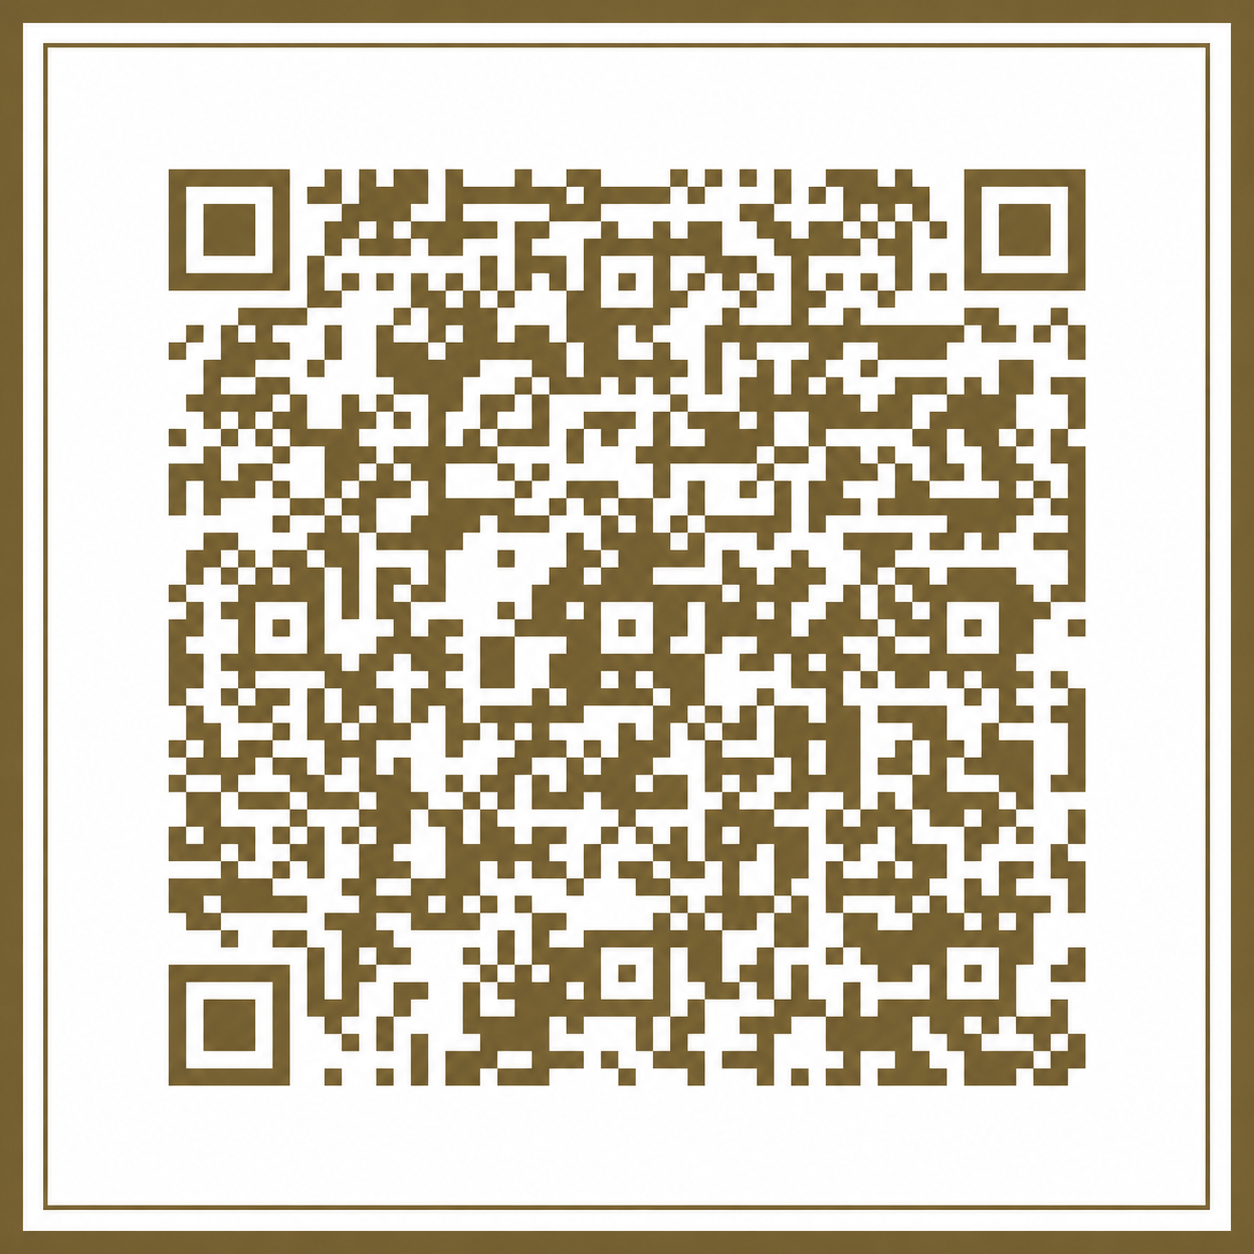
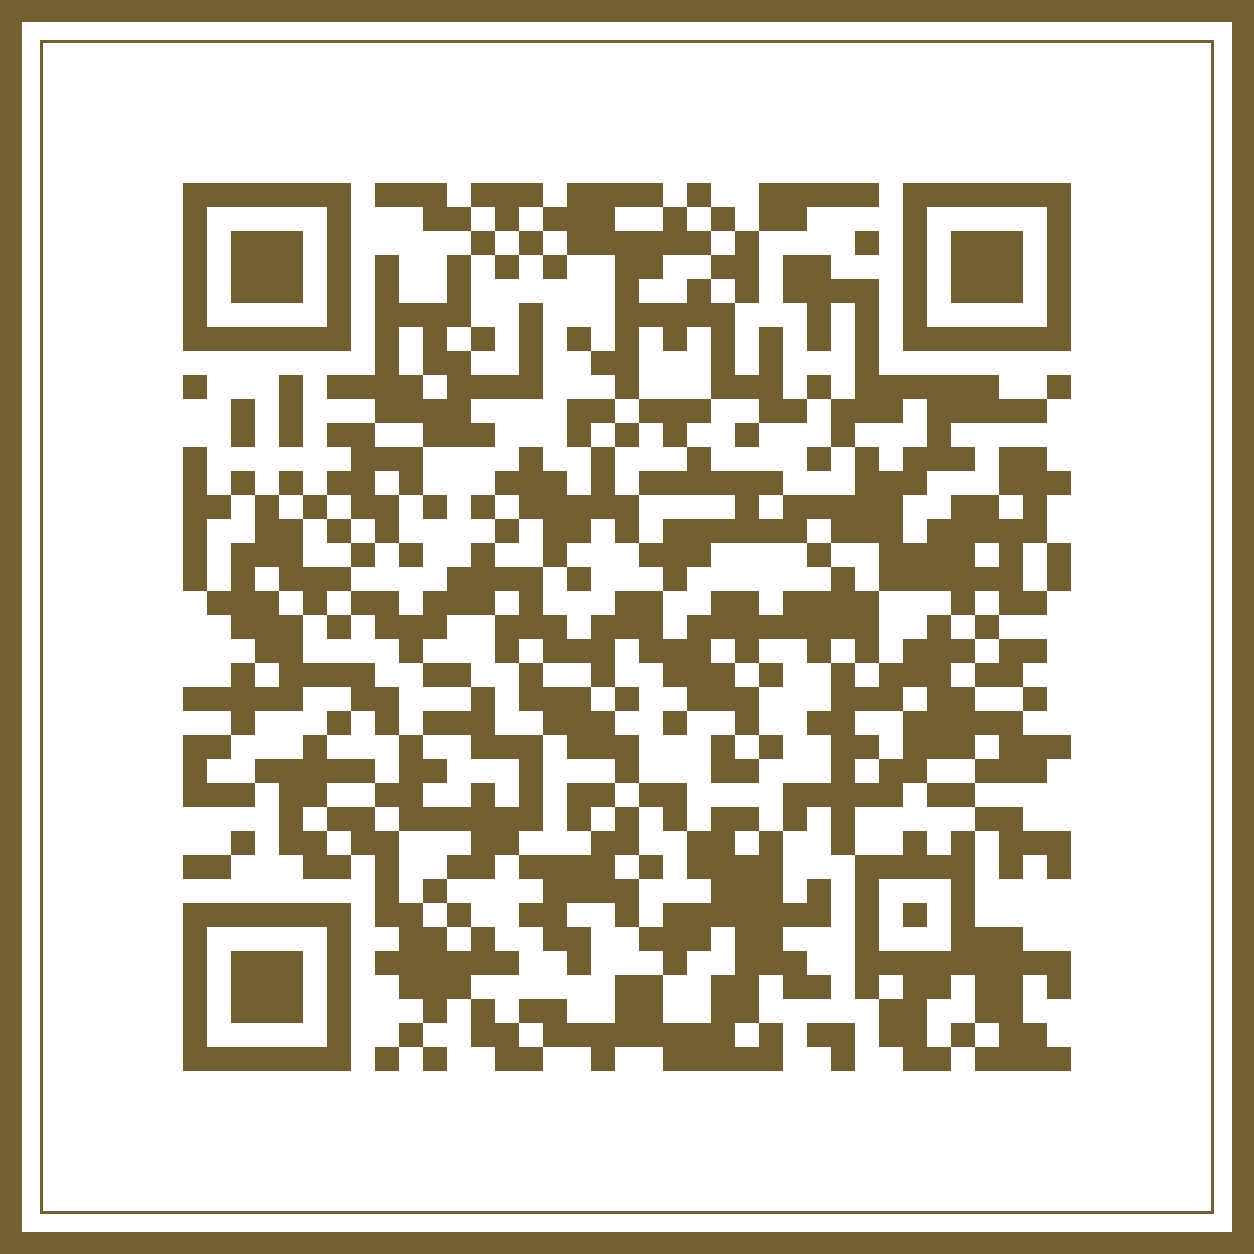
Point QR code to the AHG Instagram profile
Regenerated qr.png (same gold color and double frame) and documented its target in CLAUDE.md.

diff --git a/CLAUDE.md b/CLAUDE.md
@@ -1,0 +1,32 @@
+# CLAUDE.md
+
+This file provides guidance to Claude Code (claude.ai/code) when working with code in this repository.
+
+## Project status
+
+Static site, no dependencies, no build step, no test runner: `index.html` (markup), `style.css`, `app.js`. Run it by opening `index.html` in a browser; deploy by publishing the repo root to GitHub Pages.
+
+How it works:
+- The `PRIZES` array at the top of `app.js` is the only place the prizes are defined. The wheel's slices and labels are generated from it as SVG at load, so changing it changes the wheel.
+- A spin picks a uniform random slot with `crypto.getRandomValues`, then rotates the `#spinner` group with a CSS transition to put that slot under the fixed top pointer. `slotAt(angle)` maps the final angle back to the slot shown in the inline "Resultado" block (`aria-live`); a `console.assert` loop at load checks that mapping.
+- The rim, hub and pointer are static and don't rotate. The spin control is the "Girar" link-style button; clicking the wheel also spins.
+- Label wrapping (14 characters) and font sizes were tuned by eye against the 10 current prizes; recheck the render if you change labels.
+
+## What the app is
+
+A prize-wheel ("ruleta") app for a raffle run by **Arroyo Hondo Gardens (AHG)**. All user-facing text is in Spanish.
+
+The wheel's segments are the 10 prizes listed in `README.md`, in that order. Treat the README as the source of truth for segment labels. Several entries are joke or no-win outcomes ("La próxima es la tuya", "Eso fue calentamiento", "Reserva de nuevo 😏", "El apartamento sí, el premio después 🤭"), and some labels contain emoji, so the wheel's text rendering must handle them. Items 3, 9 and 10 in the README contain invisible U+2060 (word joiner) characters; strip them when copying labels into code.
+
+## Deployment
+
+Per the README, the app must be deployable to **GitHub Pages** and will be used once, at a single raffle. That means static files only: no server, no build step that Pages can't serve, and asset paths that are relative (the site is served from `/<repo-name>/`, not `/`). Asset filenames have no spaces (`logo.png`, `qr.png`) for that reason; keep it that way.
+
+## Visual design
+
+The look follows `DESING.md` (a spec written for an "Atelier North" landing page, adapted here to the wheel): Bone `#F2F0EB` background, Ink `#111110` text, Muted `#6B6A65`, Helvetica Neue, weights 400/500 only, 12-column grid, left-aligned, no shadows or stock images. Orange `#FF4F00` is allowed only on the final period of the `h1`, link hover underlines and focus outlines; the pointer and wheel are Ink/Bone. `DESING.md` bans emoji, but the README prize labels contain two, and the README wins for prize text. Its Atelier North content (sections, copy, project artwork) does not apply.
+
+## Assets (repo root)
+
+- `logo.png`: white AHG logo on a transparent background. It is shown in Ink on the Bone page via `filter: brightness(0)`.
+- `qr.png`: gold-on-white QR code ("Síguenos"), shown in the footer. It encodes `https://www.instagram.com/arroyohondogardens?jplx=M2oxejczb3lnNnQz` (regenerated with `segno`, same gold and double frame).
